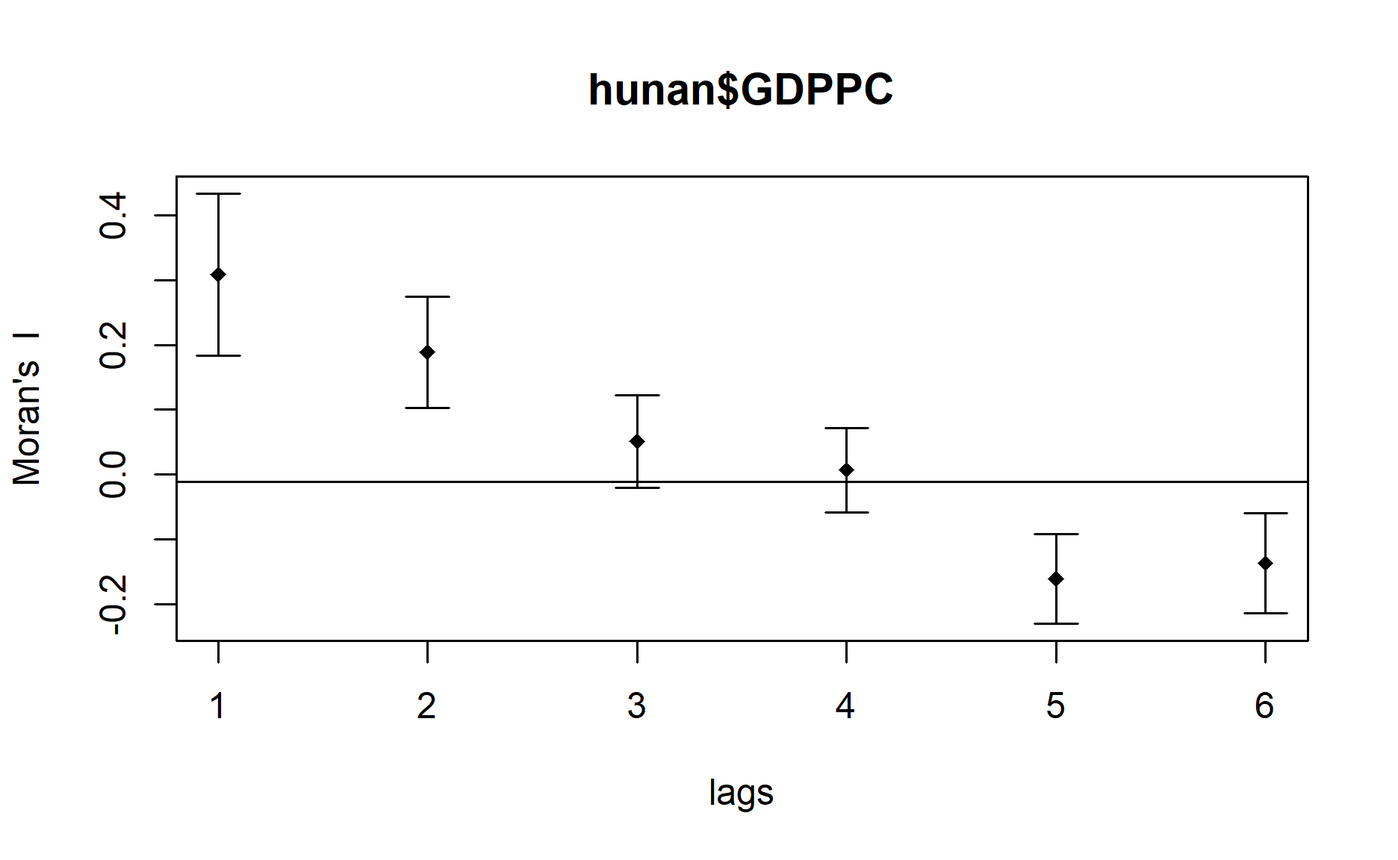
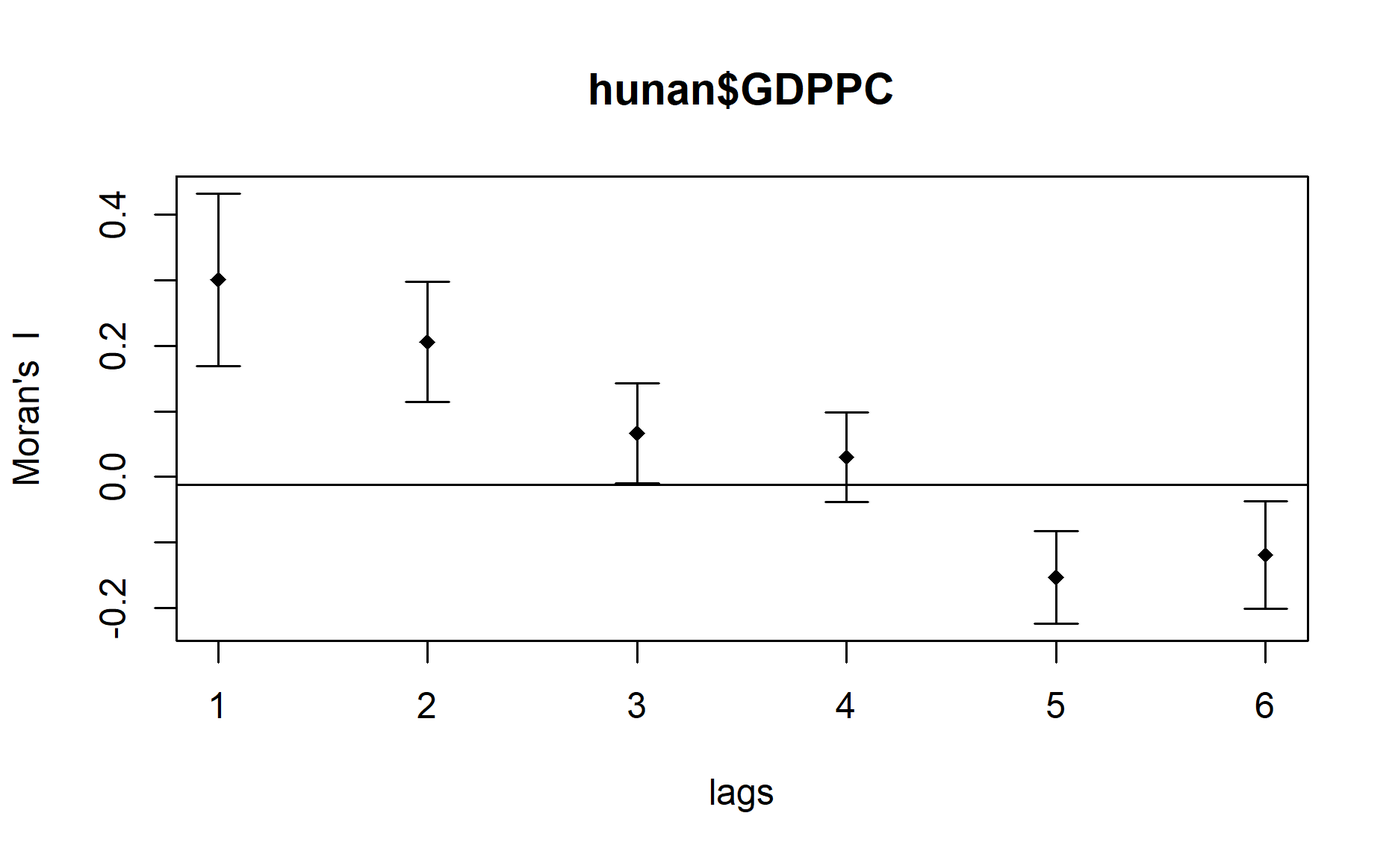
Commit 3rd revision of Hands-on Exercise 7.

diff --git a/Hands-on_Ex/Hands-on_Ex07/Hands-on_Ex07-GLSA.html b/Hands-on_Ex/Hands-on_Ex07/Hands-on_Ex07-GLSA.html
@@ -1665,7 +1665,10 @@ Geodetic CRS:  WGS 84</code></pre>
   <span class='fu'>tm_borders</span><span class='op'>(</span>alpha <span class='op'>=</span> <span class='fl'>0.5</span><span class='op'>)</span> <span class='op'>+</span>
   <span class='fu'>tm_layout</span><span class='op'>(</span>main.title <span class='op'>=</span> <span class='st'>"Equal quantile classification"</span><span class='op'>)</span>
 
-<span class='fu'>tmap_arrange</span><span class='op'>(</span><span class='va'>equal</span>, <span class='va'>quantile</span>, asp<span class='op'>=</span><span class='fl'>1</span>, ncol<span class='op'>=</span><span class='fl'>2</span><span class='op'>)</span>
+<span class='fu'>tmap_arrange</span><span class='op'>(</span><span class='va'>equal</span>, 
+             <span class='va'>quantile</span>, 
+             asp<span class='op'>=</span><span class='fl'>1</span>, 
+             ncol<span class='op'>=</span><span class='fl'>2</span><span class='op'>)</span>
 </code></pre>
 </div>
 <p><img src="Hands-on_Ex07-GLSA_files/figure-html5/unnamed-chunk-5-1.png" width="1152" /></p>
@@ -1678,7 +1681,8 @@ Geodetic CRS:  WGS 84</code></pre>
 <p>More specifically, the code chunk below is used to compute Queen contiguity weight matrix.</p>
 <div class="layout-chunk" data-layout="l-body">
 <div class="sourceCode">
-<pre class="sourceCode r"><code class="sourceCode r"><span class='va'>wm_q</span> <span class='op'>&lt;-</span> <span class='fu'>poly2nb</span><span class='op'>(</span><span class='va'>hunan</span>, queen<span class='op'>=</span><span class='cn'>TRUE</span><span class='op'>)</span>
+<pre class="sourceCode r"><code class="sourceCode r"><span class='va'>wm_q</span> <span class='op'>&lt;-</span> <span class='fu'>poly2nb</span><span class='op'>(</span><span class='va'>hunan</span>, 
+                queen<span class='op'>=</span><span class='cn'>TRUE</span><span class='op'>)</span>
 <span class='fu'><a href='https://rdrr.io/r/base/summary.html'>summary</a></span><span class='op'>(</span><span class='va'>wm_q</span><span class='op'>)</span>
 </code></pre>
 </div>
@@ -1701,7 +1705,9 @@ Link number distribution:
 <p>Next, we need to assign weights to each neighboring polygon. In our case, each neighboring polygon will be assigned equal weight (style=“W”). This is accomplished by assigning the fraction 1/(#ofneighbors) to each neighboring county then summing the weighted income values. While this is the most intuitive way to summaries the neighbors’ values it has one drawback in that polygons along the edges of the study area will base their lagged values on fewer polygons thus potentially over- or under-estimating the true nature of the spatial autocorrelation in the data. For this example, we’ll stick with the style=“W” option for simplicity’s sake but note that other more robust options are available, notably style=“B”.</p>
 <div class="layout-chunk" data-layout="l-body">
 <div class="sourceCode">
-<pre class="sourceCode r"><code class="sourceCode r"><span class='va'>rswm_q</span> <span class='op'>&lt;-</span> <span class='fu'>nb2listw</span><span class='op'>(</span><span class='va'>wm_q</span>, style<span class='op'>=</span><span class='st'>"W"</span>, zero.policy <span class='op'>=</span> <span class='cn'>TRUE</span><span class='op'>)</span>
+<pre class="sourceCode r"><code class="sourceCode r"><span class='va'>rswm_q</span> <span class='op'>&lt;-</span> <span class='fu'>nb2listw</span><span class='op'>(</span><span class='va'>wm_q</span>, 
+                   style<span class='op'>=</span><span class='st'>"W"</span>, 
+                   zero.policy <span class='op'>=</span> <span class='cn'>TRUE</span><span class='op'>)</span>
 <span class='va'>rswm_q</span>
 </code></pre>
 </div>
@@ -1728,7 +1734,10 @@ W 88 7744 88 37.86334 365.9147</code></pre>
 <p>The code chunk below performs Moran’s I statistical testing using <a href="https://r-spatial.github.io/spdep/reference/moran.test.html"><em>moran.test()</em></a> of <strong>spdep</strong>.</p>
 <div class="layout-chunk" data-layout="l-body">
 <div class="sourceCode">
-<pre class="sourceCode r"><code class="sourceCode r"><span class='fu'>moran.test</span><span class='op'>(</span><span class='va'>hunan</span><span class='op'>$</span><span class='va'>GDPPC</span>, listw<span class='op'>=</span><span class='va'>rswm_q</span>, zero.policy <span class='op'>=</span> <span class='cn'>TRUE</span>, na.action<span class='op'>=</span><span class='va'>na.omit</span><span class='op'>)</span>
+<pre class="sourceCode r"><code class="sourceCode r"><span class='fu'>moran.test</span><span class='op'>(</span><span class='va'>hunan</span><span class='op'>$</span><span class='va'>GDPPC</span>, 
+           listw<span class='op'>=</span><span class='va'>rswm_q</span>, 
+           zero.policy <span class='op'>=</span> <span class='cn'>TRUE</span>, 
+           na.action<span class='op'>=</span><span class='va'>na.omit</span><span class='op'>)</span>
 </code></pre>
 </div>
 <pre><code>
@@ -1752,7 +1761,11 @@ Moran I statistic       Expectation          Variance
 <div class="layout-chunk" data-layout="l-body">
 <div class="sourceCode">
 <pre class="sourceCode r"><code class="sourceCode r"><span class='fu'><a href='https://rdrr.io/r/base/Random.html'>set.seed</a></span><span class='op'>(</span><span class='fl'>1234</span><span class='op'>)</span>
-<span class='va'>bperm</span><span class='op'>=</span> <span class='fu'>moran.mc</span><span class='op'>(</span><span class='va'>hunan</span><span class='op'>$</span><span class='va'>GDPPC</span>, listw<span class='op'>=</span><span class='va'>rswm_q</span>, nsim<span class='op'>=</span><span class='fl'>999</span>, zero.policy <span class='op'>=</span> <span class='cn'>TRUE</span>, na.action<span class='op'>=</span><span class='va'>na.omit</span><span class='op'>)</span>
+<span class='va'>bperm</span><span class='op'>=</span> <span class='fu'>moran.mc</span><span class='op'>(</span><span class='va'>hunan</span><span class='op'>$</span><span class='va'>GDPPC</span>, 
+                listw<span class='op'>=</span><span class='va'>rswm_q</span>, 
+                nsim<span class='op'>=</span><span class='fl'>999</span>, 
+                zero.policy <span class='op'>=</span> <span class='cn'>TRUE</span>, 
+                na.action<span class='op'>=</span><span class='va'>na.omit</span><span class='op'>)</span>
 <span class='va'>bperm</span>
 </code></pre>
 </div>
@@ -1790,8 +1803,12 @@ alternative hypothesis: greater</code></pre>
 <pre><code>    Min.  1st Qu.   Median     Mean  3rd Qu.     Max. 
 -0.18339 -0.06168 -0.02125 -0.01505  0.02611  0.27593 </code></pre>
 <div class="sourceCode">
-<pre class="sourceCode r"><code class="sourceCode r"><span class='fu'><a href='https://rdrr.io/r/graphics/hist.html'>hist</a></span><span class='op'>(</span><span class='va'>bperm</span><span class='op'>$</span><span class='va'>res</span>, freq<span class='op'>=</span><span class='cn'>TRUE</span>, breaks<span class='op'>=</span><span class='fl'>20</span>, xlab<span class='op'>=</span><span class='st'>"Simulated Moran's I"</span><span class='op'>)</span>
-<span class='fu'><a href='https://rdrr.io/r/graphics/abline.html'>abline</a></span><span class='op'>(</span>v<span class='op'>=</span><span class='fl'>0</span>, col<span class='op'>=</span><span class='st'>"red"</span><span class='op'>)</span> 
+<pre class="sourceCode r"><code class="sourceCode r"><span class='fu'><a href='https://rdrr.io/r/graphics/hist.html'>hist</a></span><span class='op'>(</span><span class='va'>bperm</span><span class='op'>$</span><span class='va'>res</span>, 
+     freq<span class='op'>=</span><span class='cn'>TRUE</span>, 
+     breaks<span class='op'>=</span><span class='fl'>20</span>, 
+     xlab<span class='op'>=</span><span class='st'>"Simulated Moran's I"</span><span class='op'>)</span>
+<span class='fu'><a href='https://rdrr.io/r/graphics/abline.html'>abline</a></span><span class='op'>(</span>v<span class='op'>=</span><span class='fl'>0</span>, 
+       col<span class='op'>=</span><span class='st'>"red"</span><span class='op'>)</span> 
 </code></pre>
 </div>
 <p><img src="Hands-on_Ex07-GLSA_files/figure-html5/unnamed-chunk-10-1.png" width="624" /></p>
@@ -1832,7 +1849,9 @@ Geary C statistic       Expectation          Variance
 <div class="layout-chunk" data-layout="l-body">
 <div class="sourceCode">
 <pre class="sourceCode r"><code class="sourceCode r"><span class='fu'><a href='https://rdrr.io/r/base/Random.html'>set.seed</a></span><span class='op'>(</span><span class='fl'>1234</span><span class='op'>)</span>
-<span class='va'>bperm</span><span class='op'>=</span><span class='fu'>geary.mc</span><span class='op'>(</span><span class='va'>hunan</span><span class='op'>$</span><span class='va'>GDPPC</span>, listw<span class='op'>=</span><span class='va'>rswm_q</span>, nsim<span class='op'>=</span><span class='fl'>999</span><span class='op'>)</span>
+<span class='va'>bperm</span><span class='op'>=</span><span class='fu'>geary.mc</span><span class='op'>(</span><span class='va'>hunan</span><span class='op'>$</span><span class='va'>GDPPC</span>, 
+               listw<span class='op'>=</span><span class='va'>rswm_q</span>, 
+               nsim<span class='op'>=</span><span class='fl'>999</span><span class='op'>)</span>
 <span class='va'>bperm</span>
 </code></pre>
 </div>
@@ -1884,7 +1903,11 @@ alternative hypothesis: greater</code></pre>
 <p>In the code chunk below, <a href="https://r-spatial.github.io/spdep/reference/sp.correlogram.html"><em>sp.correlogram()</em></a> of <strong>spdep</strong> package is used to compute a 6-lag spatial correlogram of GDPPC. The global spatial autocorrelation used in Moran’s I. The <strong>plot()</strong> of base Graph is then used to plot the output.</p>
 <div class="layout-chunk" data-layout="l-body">
 <div class="sourceCode">
-<pre class="sourceCode r"><code class="sourceCode r"><span class='va'>MI_corr</span> <span class='op'>&lt;-</span> <span class='fu'>sp.correlogram</span><span class='op'>(</span><span class='va'>wm_q</span>, <span class='va'>hunan</span><span class='op'>$</span><span class='va'>GDPPC</span>, order<span class='op'>=</span><span class='fl'>6</span>, method<span class='op'>=</span><span class='st'>"I"</span>, style<span class='op'>=</span><span class='st'>"B"</span><span class='op'>)</span>
+<pre class="sourceCode r"><code class="sourceCode r"><span class='va'>MI_corr</span> <span class='op'>&lt;-</span> <span class='fu'>sp.correlogram</span><span class='op'>(</span><span class='va'>wm_q</span>, 
+                          <span class='va'>hunan</span><span class='op'>$</span><span class='va'>GDPPC</span>, 
+                          order<span class='op'>=</span><span class='fl'>6</span>, 
+                          method<span class='op'>=</span><span class='st'>"I"</span>, 
+                          style<span class='op'>=</span><span class='st'>"W"</span><span class='op'>)</span>
 <span class='fu'><a href='https://rdrr.io/r/graphics/plot.default.html'>plot</a></span><span class='op'>(</span><span class='va'>MI_corr</span><span class='op'>)</span>
 </code></pre>
 </div>
@@ -1899,19 +1922,19 @@ alternative hypothesis: greater</code></pre>
 <pre><code>Spatial correlogram for hunan$GDPPC 
 method: Moran&#39;s I
          estimate expectation   variance standard deviate
-1 (88)  0.3085690  -0.0114943  0.0039102           5.1184
-2 (88)  0.1886392  -0.0114943  0.0018387           4.6672
-3 (88)  0.0514413  -0.0114943  0.0012741           1.7631
-4 (88)  0.0067503  -0.0114943  0.0010653           0.5590
-5 (88) -0.1606674  -0.0114943  0.0011865          -4.3306
-6 (88) -0.1363950  -0.0114943  0.0014952          -3.2301
+1 (88)  0.3007500  -0.0114943  0.0043484           4.7351
+2 (88)  0.2060084  -0.0114943  0.0020962           4.7505
+3 (88)  0.0668273  -0.0114943  0.0014602           2.0496
+4 (88)  0.0299470  -0.0114943  0.0011717           1.2107
+5 (88) -0.1530471  -0.0114943  0.0012440          -4.0134
+6 (88) -0.1187070  -0.0114943  0.0016791          -2.6164
        Pr(I) two sided    
-1 (88)       3.081e-07 ***
-2 (88)       3.053e-06 ***
-3 (88)        0.077877 .  
-4 (88)        0.576170    
-5 (88)       1.487e-05 ***
-6 (88)        0.001237 ** 
+1 (88)       2.189e-06 ***
+2 (88)       2.029e-06 ***
+3 (88)        0.040400 *  
+4 (88)        0.226015    
+5 (88)       5.984e-05 ***
+6 (88)        0.008886 ** 
 ---
 Signif. codes:  0 &#39;***&#39; 0.001 &#39;**&#39; 0.01 &#39;*&#39; 0.05 &#39;.&#39; 0.1 &#39; &#39; 1</code></pre>
 </div>
@@ -1922,7 +1945,11 @@ Signif. codes:  0 &#39;***&#39; 0.001 &#39;**&#39; 0.01 &#39;*&#39; 0.05 &#39;.&
 <p>In the code chunk below, <em>sp.correlogram()</em> of <strong>spdep</strong> package is used to compute a 6-lag spatial correlogram of GDPPC. The global spatial autocorrelation used in Geary’s C. The <strong>plot()</strong> of base Graph is then used to plot the output.</p>
 <div class="layout-chunk" data-layout="l-body">
 <div class="sourceCode">
-<pre class="sourceCode r"><code class="sourceCode r"><span class='va'>GC_corr</span> <span class='op'>&lt;-</span> <span class='fu'>sp.correlogram</span><span class='op'>(</span><span class='va'>wm_q</span>, <span class='va'>hunan</span><span class='op'>$</span><span class='va'>GDPPC</span>, order<span class='op'>=</span><span class='fl'>6</span>, method<span class='op'>=</span><span class='st'>"C"</span>, style<span class='op'>=</span><span class='st'>"W"</span><span class='op'>)</span>
+<pre class="sourceCode r"><code class="sourceCode r"><span class='va'>GC_corr</span> <span class='op'>&lt;-</span> <span class='fu'>sp.correlogram</span><span class='op'>(</span><span class='va'>wm_q</span>, 
+                          <span class='va'>hunan</span><span class='op'>$</span><span class='va'>GDPPC</span>, 
+                          order<span class='op'>=</span><span class='fl'>6</span>, 
+                          method<span class='op'>=</span><span class='st'>"C"</span>, 
+                          style<span class='op'>=</span><span class='st'>"W"</span><span class='op'>)</span>
 <span class='fu'><a href='https://rdrr.io/r/graphics/plot.default.html'>plot</a></span><span class='op'>(</span><span class='va'>GC_corr</span><span class='op'>)</span>
 </code></pre>
 </div>

diff --git a/_site/Hands-on_Ex/Hands-on_Ex07/Hands-on_Ex07-GLSA.html b/_site/Hands-on_Ex/Hands-on_Ex07/Hands-on_Ex07-GLSA.html
@@ -1665,7 +1665,10 @@ Geodetic CRS:  WGS 84</code></pre>
   <span class='fu'>tm_borders</span><span class='op'>(</span>alpha <span class='op'>=</span> <span class='fl'>0.5</span><span class='op'>)</span> <span class='op'>+</span>
   <span class='fu'>tm_layout</span><span class='op'>(</span>main.title <span class='op'>=</span> <span class='st'>"Equal quantile classification"</span><span class='op'>)</span>
 
-<span class='fu'>tmap_arrange</span><span class='op'>(</span><span class='va'>equal</span>, <span class='va'>quantile</span>, asp<span class='op'>=</span><span class='fl'>1</span>, ncol<span class='op'>=</span><span class='fl'>2</span><span class='op'>)</span>
+<span class='fu'>tmap_arrange</span><span class='op'>(</span><span class='va'>equal</span>, 
+             <span class='va'>quantile</span>, 
+             asp<span class='op'>=</span><span class='fl'>1</span>, 
+             ncol<span class='op'>=</span><span class='fl'>2</span><span class='op'>)</span>
 </code></pre>
 </div>
 <p><img src="Hands-on_Ex07-GLSA_files/figure-html5/unnamed-chunk-5-1.png" width="1152" /></p>
@@ -1678,7 +1681,8 @@ Geodetic CRS:  WGS 84</code></pre>
 <p>More specifically, the code chunk below is used to compute Queen contiguity weight matrix.</p>
 <div class="layout-chunk" data-layout="l-body">
 <div class="sourceCode">
-<pre class="sourceCode r"><code class="sourceCode r"><span class='va'>wm_q</span> <span class='op'>&lt;-</span> <span class='fu'>poly2nb</span><span class='op'>(</span><span class='va'>hunan</span>, queen<span class='op'>=</span><span class='cn'>TRUE</span><span class='op'>)</span>
+<pre class="sourceCode r"><code class="sourceCode r"><span class='va'>wm_q</span> <span class='op'>&lt;-</span> <span class='fu'>poly2nb</span><span class='op'>(</span><span class='va'>hunan</span>, 
+                queen<span class='op'>=</span><span class='cn'>TRUE</span><span class='op'>)</span>
 <span class='fu'><a href='https://rdrr.io/r/base/summary.html'>summary</a></span><span class='op'>(</span><span class='va'>wm_q</span><span class='op'>)</span>
 </code></pre>
 </div>
@@ -1701,7 +1705,9 @@ Link number distribution:
 <p>Next, we need to assign weights to each neighboring polygon. In our case, each neighboring polygon will be assigned equal weight (style=“W”). This is accomplished by assigning the fraction 1/(#ofneighbors) to each neighboring county then summing the weighted income values. While this is the most intuitive way to summaries the neighbors’ values it has one drawback in that polygons along the edges of the study area will base their lagged values on fewer polygons thus potentially over- or under-estimating the true nature of the spatial autocorrelation in the data. For this example, we’ll stick with the style=“W” option for simplicity’s sake but note that other more robust options are available, notably style=“B”.</p>
 <div class="layout-chunk" data-layout="l-body">
 <div class="sourceCode">
-<pre class="sourceCode r"><code class="sourceCode r"><span class='va'>rswm_q</span> <span class='op'>&lt;-</span> <span class='fu'>nb2listw</span><span class='op'>(</span><span class='va'>wm_q</span>, style<span class='op'>=</span><span class='st'>"W"</span>, zero.policy <span class='op'>=</span> <span class='cn'>TRUE</span><span class='op'>)</span>
+<pre class="sourceCode r"><code class="sourceCode r"><span class='va'>rswm_q</span> <span class='op'>&lt;-</span> <span class='fu'>nb2listw</span><span class='op'>(</span><span class='va'>wm_q</span>, 
+                   style<span class='op'>=</span><span class='st'>"W"</span>, 
+                   zero.policy <span class='op'>=</span> <span class='cn'>TRUE</span><span class='op'>)</span>
 <span class='va'>rswm_q</span>
 </code></pre>
 </div>
@@ -1728,7 +1734,10 @@ W 88 7744 88 37.86334 365.9147</code></pre>
 <p>The code chunk below performs Moran’s I statistical testing using <a href="https://r-spatial.github.io/spdep/reference/moran.test.html"><em>moran.test()</em></a> of <strong>spdep</strong>.</p>
 <div class="layout-chunk" data-layout="l-body">
 <div class="sourceCode">
-<pre class="sourceCode r"><code class="sourceCode r"><span class='fu'>moran.test</span><span class='op'>(</span><span class='va'>hunan</span><span class='op'>$</span><span class='va'>GDPPC</span>, listw<span class='op'>=</span><span class='va'>rswm_q</span>, zero.policy <span class='op'>=</span> <span class='cn'>TRUE</span>, na.action<span class='op'>=</span><span class='va'>na.omit</span><span class='op'>)</span>
+<pre class="sourceCode r"><code class="sourceCode r"><span class='fu'>moran.test</span><span class='op'>(</span><span class='va'>hunan</span><span class='op'>$</span><span class='va'>GDPPC</span>, 
+           listw<span class='op'>=</span><span class='va'>rswm_q</span>, 
+           zero.policy <span class='op'>=</span> <span class='cn'>TRUE</span>, 
+           na.action<span class='op'>=</span><span class='va'>na.omit</span><span class='op'>)</span>
 </code></pre>
 </div>
 <pre><code>
@@ -1752,7 +1761,11 @@ Moran I statistic       Expectation          Variance
 <div class="layout-chunk" data-layout="l-body">
 <div class="sourceCode">
 <pre class="sourceCode r"><code class="sourceCode r"><span class='fu'><a href='https://rdrr.io/r/base/Random.html'>set.seed</a></span><span class='op'>(</span><span class='fl'>1234</span><span class='op'>)</span>
-<span class='va'>bperm</span><span class='op'>=</span> <span class='fu'>moran.mc</span><span class='op'>(</span><span class='va'>hunan</span><span class='op'>$</span><span class='va'>GDPPC</span>, listw<span class='op'>=</span><span class='va'>rswm_q</span>, nsim<span class='op'>=</span><span class='fl'>999</span>, zero.policy <span class='op'>=</span> <span class='cn'>TRUE</span>, na.action<span class='op'>=</span><span class='va'>na.omit</span><span class='op'>)</span>
+<span class='va'>bperm</span><span class='op'>=</span> <span class='fu'>moran.mc</span><span class='op'>(</span><span class='va'>hunan</span><span class='op'>$</span><span class='va'>GDPPC</span>, 
+                listw<span class='op'>=</span><span class='va'>rswm_q</span>, 
+                nsim<span class='op'>=</span><span class='fl'>999</span>, 
+                zero.policy <span class='op'>=</span> <span class='cn'>TRUE</span>, 
+                na.action<span class='op'>=</span><span class='va'>na.omit</span><span class='op'>)</span>
 <span class='va'>bperm</span>
 </code></pre>
 </div>
@@ -1790,8 +1803,12 @@ alternative hypothesis: greater</code></pre>
 <pre><code>    Min.  1st Qu.   Median     Mean  3rd Qu.     Max. 
 -0.18339 -0.06168 -0.02125 -0.01505  0.02611  0.27593 </code></pre>
 <div class="sourceCode">
-<pre class="sourceCode r"><code class="sourceCode r"><span class='fu'><a href='https://rdrr.io/r/graphics/hist.html'>hist</a></span><span class='op'>(</span><span class='va'>bperm</span><span class='op'>$</span><span class='va'>res</span>, freq<span class='op'>=</span><span class='cn'>TRUE</span>, breaks<span class='op'>=</span><span class='fl'>20</span>, xlab<span class='op'>=</span><span class='st'>"Simulated Moran's I"</span><span class='op'>)</span>
-<span class='fu'><a href='https://rdrr.io/r/graphics/abline.html'>abline</a></span><span class='op'>(</span>v<span class='op'>=</span><span class='fl'>0</span>, col<span class='op'>=</span><span class='st'>"red"</span><span class='op'>)</span> 
+<pre class="sourceCode r"><code class="sourceCode r"><span class='fu'><a href='https://rdrr.io/r/graphics/hist.html'>hist</a></span><span class='op'>(</span><span class='va'>bperm</span><span class='op'>$</span><span class='va'>res</span>, 
+     freq<span class='op'>=</span><span class='cn'>TRUE</span>, 
+     breaks<span class='op'>=</span><span class='fl'>20</span>, 
+     xlab<span class='op'>=</span><span class='st'>"Simulated Moran's I"</span><span class='op'>)</span>
+<span class='fu'><a href='https://rdrr.io/r/graphics/abline.html'>abline</a></span><span class='op'>(</span>v<span class='op'>=</span><span class='fl'>0</span>, 
+       col<span class='op'>=</span><span class='st'>"red"</span><span class='op'>)</span> 
 </code></pre>
 </div>
 <p><img src="Hands-on_Ex07-GLSA_files/figure-html5/unnamed-chunk-10-1.png" width="624" /></p>
@@ -1832,7 +1849,9 @@ Geary C statistic       Expectation          Variance
 <div class="layout-chunk" data-layout="l-body">
 <div class="sourceCode">
 <pre class="sourceCode r"><code class="sourceCode r"><span class='fu'><a href='https://rdrr.io/r/base/Random.html'>set.seed</a></span><span class='op'>(</span><span class='fl'>1234</span><span class='op'>)</span>
-<span class='va'>bperm</span><span class='op'>=</span><span class='fu'>geary.mc</span><span class='op'>(</span><span class='va'>hunan</span><span class='op'>$</span><span class='va'>GDPPC</span>, listw<span class='op'>=</span><span class='va'>rswm_q</span>, nsim<span class='op'>=</span><span class='fl'>999</span><span class='op'>)</span>
+<span class='va'>bperm</span><span class='op'>=</span><span class='fu'>geary.mc</span><span class='op'>(</span><span class='va'>hunan</span><span class='op'>$</span><span class='va'>GDPPC</span>, 
+               listw<span class='op'>=</span><span class='va'>rswm_q</span>, 
+               nsim<span class='op'>=</span><span class='fl'>999</span><span class='op'>)</span>
 <span class='va'>bperm</span>
 </code></pre>
 </div>
@@ -1884,7 +1903,11 @@ alternative hypothesis: greater</code></pre>
 <p>In the code chunk below, <a href="https://r-spatial.github.io/spdep/reference/sp.correlogram.html"><em>sp.correlogram()</em></a> of <strong>spdep</strong> package is used to compute a 6-lag spatial correlogram of GDPPC. The global spatial autocorrelation used in Moran’s I. The <strong>plot()</strong> of base Graph is then used to plot the output.</p>
 <div class="layout-chunk" data-layout="l-body">
 <div class="sourceCode">
-<pre class="sourceCode r"><code class="sourceCode r"><span class='va'>MI_corr</span> <span class='op'>&lt;-</span> <span class='fu'>sp.correlogram</span><span class='op'>(</span><span class='va'>wm_q</span>, <span class='va'>hunan</span><span class='op'>$</span><span class='va'>GDPPC</span>, order<span class='op'>=</span><span class='fl'>6</span>, method<span class='op'>=</span><span class='st'>"I"</span>, style<span class='op'>=</span><span class='st'>"B"</span><span class='op'>)</span>
+<pre class="sourceCode r"><code class="sourceCode r"><span class='va'>MI_corr</span> <span class='op'>&lt;-</span> <span class='fu'>sp.correlogram</span><span class='op'>(</span><span class='va'>wm_q</span>, 
+                          <span class='va'>hunan</span><span class='op'>$</span><span class='va'>GDPPC</span>, 
+                          order<span class='op'>=</span><span class='fl'>6</span>, 
+                          method<span class='op'>=</span><span class='st'>"I"</span>, 
+                          style<span class='op'>=</span><span class='st'>"W"</span><span class='op'>)</span>
 <span class='fu'><a href='https://rdrr.io/r/graphics/plot.default.html'>plot</a></span><span class='op'>(</span><span class='va'>MI_corr</span><span class='op'>)</span>
 </code></pre>
 </div>
@@ -1899,19 +1922,19 @@ alternative hypothesis: greater</code></pre>
 <pre><code>Spatial correlogram for hunan$GDPPC 
 method: Moran&#39;s I
          estimate expectation   variance standard deviate
-1 (88)  0.3085690  -0.0114943  0.0039102           5.1184
-2 (88)  0.1886392  -0.0114943  0.0018387           4.6672
-3 (88)  0.0514413  -0.0114943  0.0012741           1.7631
-4 (88)  0.0067503  -0.0114943  0.0010653           0.5590
-5 (88) -0.1606674  -0.0114943  0.0011865          -4.3306
-6 (88) -0.1363950  -0.0114943  0.0014952          -3.2301
+1 (88)  0.3007500  -0.0114943  0.0043484           4.7351
+2 (88)  0.2060084  -0.0114943  0.0020962           4.7505
+3 (88)  0.0668273  -0.0114943  0.0014602           2.0496
+4 (88)  0.0299470  -0.0114943  0.0011717           1.2107
+5 (88) -0.1530471  -0.0114943  0.0012440          -4.0134
+6 (88) -0.1187070  -0.0114943  0.0016791          -2.6164
        Pr(I) two sided    
-1 (88)       3.081e-07 ***
-2 (88)       3.053e-06 ***
-3 (88)        0.077877 .  
-4 (88)        0.576170    
-5 (88)       1.487e-05 ***
-6 (88)        0.001237 ** 
+1 (88)       2.189e-06 ***
+2 (88)       2.029e-06 ***
+3 (88)        0.040400 *  
+4 (88)        0.226015    
+5 (88)       5.984e-05 ***
+6 (88)        0.008886 ** 
 ---
 Signif. codes:  0 &#39;***&#39; 0.001 &#39;**&#39; 0.01 &#39;*&#39; 0.05 &#39;.&#39; 0.1 &#39; &#39; 1</code></pre>
 </div>
@@ -1922,7 +1945,11 @@ Signif. codes:  0 &#39;***&#39; 0.001 &#39;**&#39; 0.01 &#39;*&#39; 0.05 &#39;.&
 <p>In the code chunk below, <em>sp.correlogram()</em> of <strong>spdep</strong> package is used to compute a 6-lag spatial correlogram of GDPPC. The global spatial autocorrelation used in Geary’s C. The <strong>plot()</strong> of base Graph is then used to plot the output.</p>
 <div class="layout-chunk" data-layout="l-body">
 <div class="sourceCode">
-<pre class="sourceCode r"><code class="sourceCode r"><span class='va'>GC_corr</span> <span class='op'>&lt;-</span> <span class='fu'>sp.correlogram</span><span class='op'>(</span><span class='va'>wm_q</span>, <span class='va'>hunan</span><span class='op'>$</span><span class='va'>GDPPC</span>, order<span class='op'>=</span><span class='fl'>6</span>, method<span class='op'>=</span><span class='st'>"C"</span>, style<span class='op'>=</span><span class='st'>"W"</span><span class='op'>)</span>
+<pre class="sourceCode r"><code class="sourceCode r"><span class='va'>GC_corr</span> <span class='op'>&lt;-</span> <span class='fu'>sp.correlogram</span><span class='op'>(</span><span class='va'>wm_q</span>, 
+                          <span class='va'>hunan</span><span class='op'>$</span><span class='va'>GDPPC</span>, 
+                          order<span class='op'>=</span><span class='fl'>6</span>, 
+                          method<span class='op'>=</span><span class='st'>"C"</span>, 
+                          style<span class='op'>=</span><span class='st'>"W"</span><span class='op'>)</span>
 <span class='fu'><a href='https://rdrr.io/r/graphics/plot.default.html'>plot</a></span><span class='op'>(</span><span class='va'>GC_corr</span><span class='op'>)</span>
 </code></pre>
 </div>
